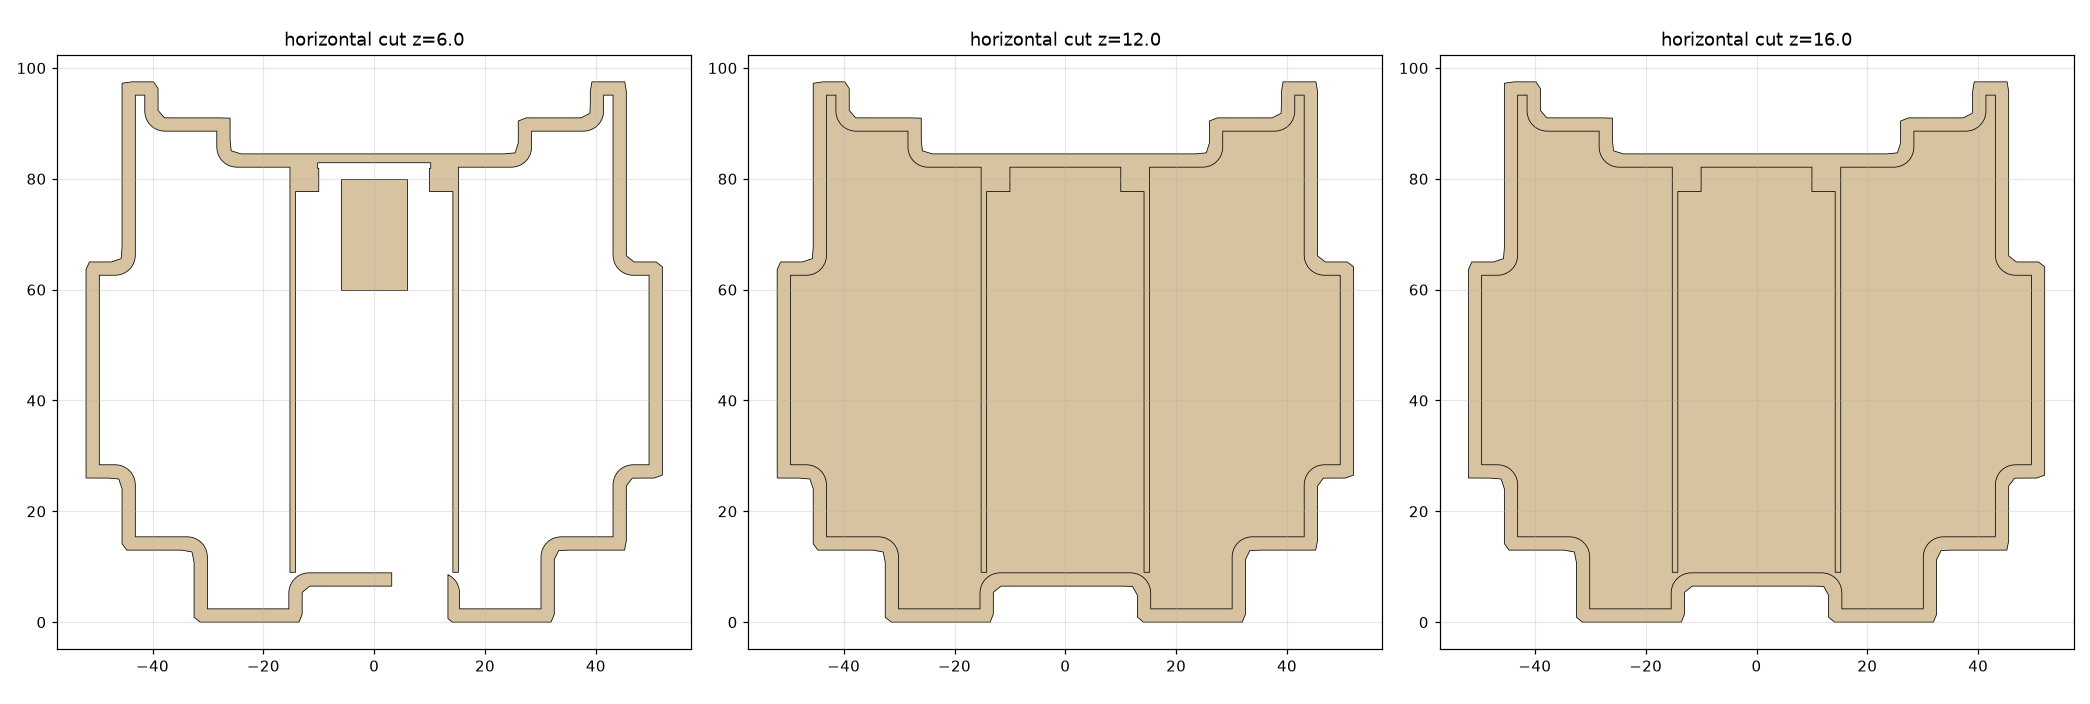
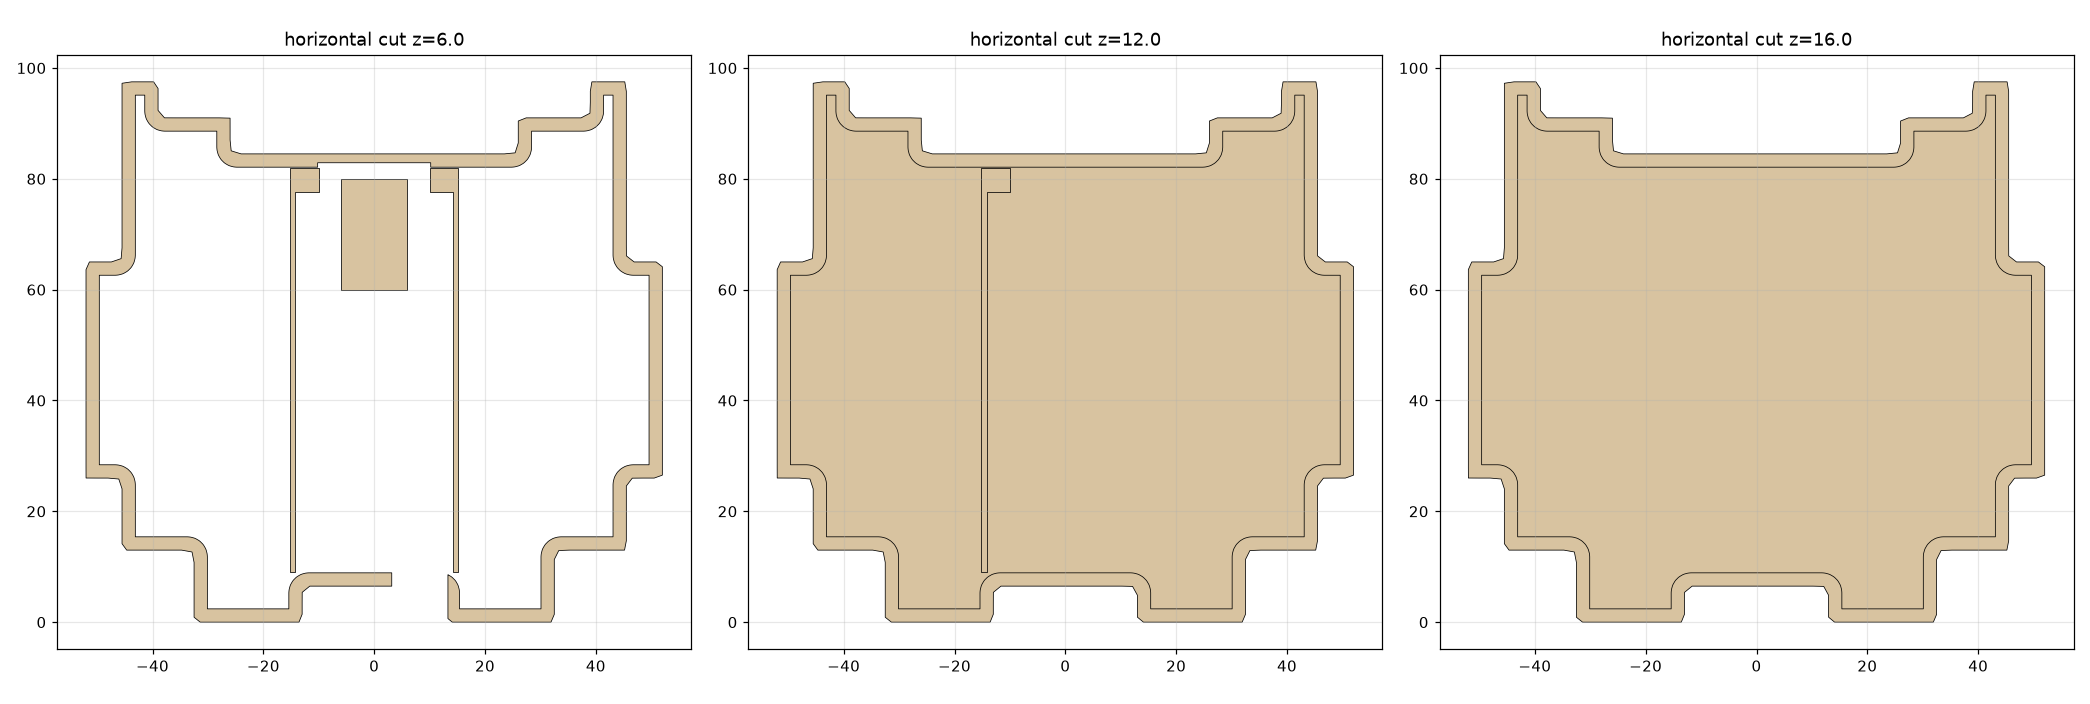
chore(hardware): 同步外壳脚本、装配说明与三视图预览
- figures.py / params.py 更新，exploded 图重出
- 新增 hardware/shell/README.md：外形、内部布局、打印参数、装配顺序、校验结果
- 新增 preview/view_{front,iso,side}.png
- 主 README 结构里链到外壳说明

diff --git a/hardware/shell/figures.py b/hardware/shell/figures.py
@@ -19,7 +19,7 @@ for _f in ("/home/murdo_klein/.local/share/fonts/NotoSansSC-Regular.otf",
 plt.rcParams["font.family"] = ["Noto Sans SC", "DejaVu Sans"]
 plt.rcParams["axes.unicode_minus"] = False
 
-from build123d import Pos, Rot, Cylinder, Align
+from build123d import Pos, Rot, Cylinder, Align, Axis
 
 import params as K
 import model as M
@@ -125,13 +125,15 @@ def main():
 
     print("fig4 exploded")
     dz = [("back", 96.0), ("bat", 64.0), ("board", 30.0)]
-    ex = [Part(b.moved(Pos(0, 0, 96.0)), BACKC)]
+    ex = [Part(b.moved(Pos(0, 0, 150.0)), BACKC)]
     ex.append(Part(Cylinder(K.BAT_D / 2, K.BAT_L).moved(
-        Pos(K.BAT_CX, K.BAT_CY, K.BAT_CZ + 64.0)), BAT))
-    for bp in board_proxy():
-        ex.append(Part(bp.moved(Pos(0, 0, 30.0)), PCB))
+        Pos(0, K.BAT_CY, K.BAT_CZ + 100.0)).rotate(Axis.Y, 90), BAT))
+    bp_list = board_proxy()
+    if bp_list:
+        for bp in bp_list:
+            ex.append(Part(bp.moved(Pos(0, 0, 52.0)), PCB))
     ex += [Part(f, BODY), Part(h, HORN)] + eyes + btns
-    render(ex, R_iso, "fig4_exploded.png", "图4 爆炸图：后盖 / 18650 / 主板 / 前壳", figsize=(8.4, 8.4))
+    render(ex, rot_xyz(np.radians(-46), 0, np.radians(-14)), "fig4_exploded.png", "图4 爆炸图：后盖 / 18650 / 主板 / 前壳", figsize=(8.4, 8.4))
 
 if __name__ == "__main__":
     main()

diff --git a/hardware/shell/params.py b/hardware/shell/params.py
@@ -19,6 +19,8 @@ SKIRT_CLR = 0.20        # 裙边与台阶的单边间隙
 DETENT_H = 0.35         # 卡点凸起高度（干涉量 0.15）
 DETENT_Z = SPLIT_Z - 3.2
 
+HAS_SPEAKER = False      # 本方案不装喇叭：没有前腔、没有出声孔
+
 FACE_RECESS = 0.9       # 前脸整体内凹（凸边 = 像素描边）
 FACE_RIM = 4.0          # 前脸留边宽度（相对原始轮廓）
 EYE_POCKET = 1.9        # 眼窝深度（从 Z=0 起）

diff --git a/hardware/shell/README.md b/hardware/shell/README.md
@@ -1,0 +1,114 @@
+# 谛听 · 3D 打印外壳（T5AI-Core DevKit + 18650）
+
+按 `/tmp/pet2/c5.png` 的 20×18 像素精灵取形，做成 FDM 可打印的两片式外壳：
+正面是**像素脸**（凸起的描边 + 内凹面板 + 奶白眼片 + 珊瑚色"芽"），内部装 **TuyaOpen T5AI-Core DevKit** 与一节 **18650**。
+**本方案不含喇叭**（按需求取消），因此没有前腔和出声孔。
+
+```
+hardware/shell/
+├─ params.py        全部参数（改这里，不碰几何代码）
+├─ spr.py           像素网格 → 轮廓多边形（20×18 采样自 c5.png）
+├─ model.py         建模主程序：rounded_body / make_front / make_back / make_horn / make_eye / make_button
+├─ validate.py      干涉校验（前/后/芽/眼/键 × 板/电池）
+├─ preview.py       正交三视图 + 剖切（无需 3D 后端）
+├─ figures.py       交付插图
+├─ out/             交付文件：5 个 STL + 5 个 STEP
+└─ preview/         插图
+```
+
+---
+
+## 1. 外形
+
+| 项目 | 数值 |
+|---|---|
+| 外形（宽×高×厚） | **104 × 97.5 × 44 mm**（含芽时高 110.5） |
+| 像素格 | 6.5 mm/格，20×18 精灵 |
+| 壁厚 | 2.4 mm |
+| 分模面 | Z = 22（厚度的正中间），后盖裙边搭接 4 mm |
+| 前后大圆角 | R2.6（按截面内缩 loft 出来，**不是** CAD 圆角——像素阶梯的凹角做不了 fillet） |
+| 前脸 | 整体内凹 0.9 mm，四周留 4 mm 边 → 凸边即像素描边 |
+| 眼片 | 12.8 × 12.8 × 1.6 奶白件，眼窝单边间隙 0.28 |
+| 芽 | 26×26 台阶 + 13 宽触角，独立珊瑚色件，靠两条槽套住前后壳的榫 |
+
+## 2. 内部布局
+
+坐标系：X 左右、Y 向上（Y=0 脚底）、Z 从前脸往后（Z=0 前脸外表面）。
+
+- **主板**：装在前壳内壁，**元件面朝前**（麦、按键、指示灯都贴着前脸）。
+  板 67.5×28.04，排针朝后伸到 Z=19.51；靠"两条侧壁 + 两条排针承托条 + 上挡块 + T5-E1 压罩凸台"固定，**不用螺丝、不用胶**。
+- **麦克风**：板载 Ø6 驻极体（穿过 PCB），轴线 (-6.5, 49.55)，前脸开 Ø4.6 导音孔，正对两眼之间。
+- **按键**：USER/P29 与 RST 两个轻触键在 (5.42, 46.1) 与 (5.42, 51.4)，前脸做 Ø4.6 沉孔 + Ø3.2 通孔，配 Ø4.5 打印按键帽。
+- **指示灯**：PWR / CRG 两颗贴片 LED 正对前脸 0.55 mm 薄壁窗（透光不开孔）。
+- **USB-C**：插头从**底面**（两脚之间的凹口）进，窗口 10.2 宽 × 3.4 高。
+- **电源开关**：同样从底面拨动，窗口 10.7 × 6.2。
+- **电池**：18650（Ø18.4 × 65）横放（轴沿 X）在**后盖**里，中心 (0, 40, 31.8)，两端 2 mm 挡筋限位。
+  理由：前壳被 67.5 长的板 + 10.5 的排针占满，19.2 的电池只有后盖放得下。
+- **合盖**：后盖 4 片卡舌 + 前壳侧壁 4 个 Ø2.2 球卡点（干涉 0.15），合上"咔"一声；底面留撬盖缺口。
+- **芽**：前后壳在头顶各伸出一条 1.3×12×3 的榫，插进芽底面两条槽。
+
+## 3. 打印
+
+| 件 | 数量 | 建议方向 | 支撑 |
+|---|---|---|---|
+| `front.stl` | 1 | 前脸朝下（Z=0 贴床） | 不需要 |
+| `back.stl` | 1 | 后背面朝下（z=44 贴床） | 不需要 |
+| `horn.stl` | 1 | 芽的脚底面朝下 | 不需要 |
+| `eye.stl` | **2** | 平面朝下 | 不需要 |
+| `button.stl` | **2** | 法兰朝下 | 不需要 |
+
+- 材料 PLA / PLA+ / PETG 均可；层高 0.2，壁厚 3 圈（≥1.2 mm），填充 15%。
+- 前脸是**大面积首层**，建议 5 mm brim、热床 60 °C，避免翘边把像素边拉变形。
+- 卡点与榫建议 0.16 mm 层高、速度降到 40 mm/s，保证配合手感。
+- 体积/耗材估算：前 35.0 + 后 42.0 + 芽 12.1 + 眼 0.5 + 键 0.1 ≈ **90 cm³ 实体**；15% 填充约 **48 g**。
+
+## 4. 装配
+
+1. **眼片**：从内侧压进眼窝（0.28 间隙），平齐前脸即可，可点一滴胶。
+2. **按键帽**：从内侧把 Ø3.1 杆穿过 Ø3.2 孔，Ø4.5 法兰落在沉孔里。
+3. **主板**：斜着把 USB 端落进底面开口，再把板压向排针承托条（排针尖端 Z=19.51）；侧壁间隙 0.36 自动居中，T5-E1 屏蔽罩会卡进压罩凸台。
+4. **电池**：JST 插到板上 BAT 座（**注意红黑极性，反接会烧板**），电池横进后盖的两道挡筋之间，导线沿后盖内壁走向前壳。
+5. **合盖**：后盖裙边对准前壳台阶，四周均匀按下，听到 4 声"咔"；拆的时候从底面撬盖缺口用指甲撬开。
+6. **芽**：底面两条槽对准头顶两条榫，压到底（可点胶）。
+7. **开机**：底面窗口拨 ON/OFF；充电从底面插 USB-C。
+
+> 装配顺序建议：先装眼片/按键帽 → 装板 → 接电池 → 试通电（灯亮、按键有事件）→ 合盖。
+
+## 5. 改参数
+
+全部在 `params.py`，改完 `python model.py` 重出 STL/STEP（约 11 s）。
+
+| 想改 | 改哪里 |
+|---|---|
+| 整体大小 | `P`（一格多少 mm），整机随比例缩放 |
+| 厚度 | `D`；`SPLIT_Z` 取 `D/2` |
+| 壁厚 | `WALL` |
+| 前脸凹深 / 留边 | `FACE_RECESS` / `FACE_RIM` |
+| 眼片大小 | `EYE_W`；眼窝深度 `EYE_POCKET` |
+| 电池型号 | `BAT_D` / `BAT_L` / `BAT_CY` / `BAT_CZ`（换 18500 或软包时改这四个） |
+| 板的位置 | `BOARD_Y0`（上下）、`BOARD_Z0`（前后） |
+| 按键/麦/灯位置 | `MIC_C` / `BTN_USER_C` / `BTN_RST_C` / `LED_PWR` / `LED_CRG` |
+| 要不要喇叭 | `HAS_SPEAKER`（当前 False；True 需另加前腔与出声孔，本版未实现） |
+
+## 6. 已做的校验
+
+`python validate.py` 用官方 STEP 的 18 个器件包围盒当代理（直接布尔 37 MB STEP 会卡死），逐对求交：
+
+```
+front × board       0.000 cm³
+back  × board       0.000
+front × battery     0.000
+back  × battery     0.000
+front × back        0.000
+horn  × front/back  0.000
+button × front      0.000
+eye   × front       0.003   （三角化伪影，设计间隙 0.28）
+```
+
+STL 闭合性：`back / horn / eye / button` 完全流形；`front` 有 8 条**零长度边**（球卡点的极点三角化伪影，切片器会自动丢弃，不影响打印；STEP 本体 `is_valid=True`）。
+
+## 7. 已知限制
+
+- 芽做成"沿厚度贯通的冠"而不是细柱：因为头顶 Y78.5..84.5 处被 T5-E1 模组顶住，细柱没有落脚点。
+- T5-E1 的天线 FPC 在 STEP 里是刚性的（伸到板外 6 mm），本设计把板整体下移 1.4 mm 并在屋顶开了 1.0 深的让位槽；实机装配时若 FPC 顶到顶壁，向上折一点即可。
+- 底面两个窗口（USB / 开关）是连通的凹口，从正下方能看到一点板边，属正常。

diff --git a/README.md b/README.md
@@ -196,7 +196,7 @@ diting/
 │       └── DayView.java          旧的两栏画布（已不挂到主屏）
 ├── cloud/                 云端：VAD + 声纹 + 识别（sherpa-onnx）
 ├── firmware/              预编译烧录包（源码待并）
-├── hardware/shell/        外壳参数化建模（out/ 里的 STL/STEP 可再生成，不入库）
+├── hardware/shell/        外壳参数化建模，见 hardware/shell/README.md（STL/STEP 可再生成，不入库）
 ├── schema/                早期记录格式与示例
 ├── prompts/               重写提示词原文与实验笔记
 ├── docs/                  设计、硬件、演示、问答、截图
